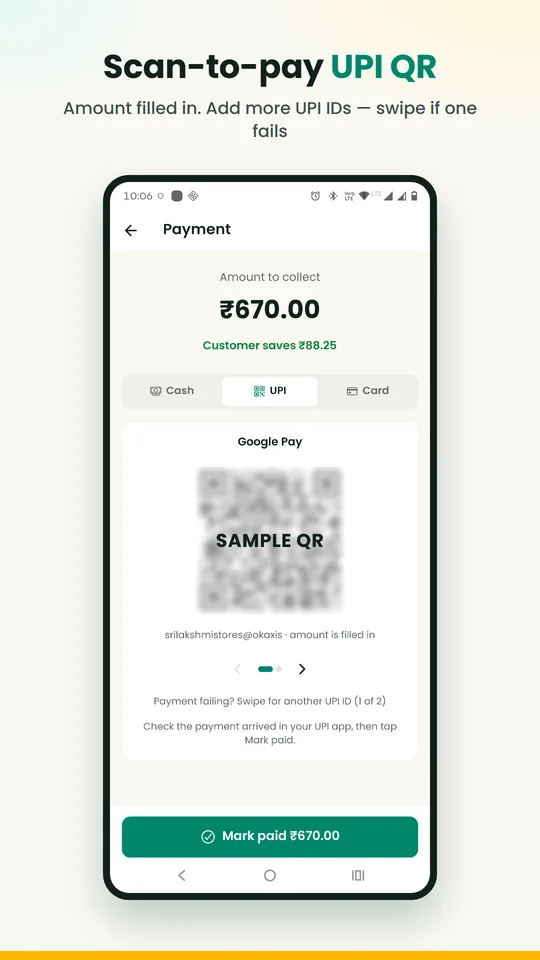
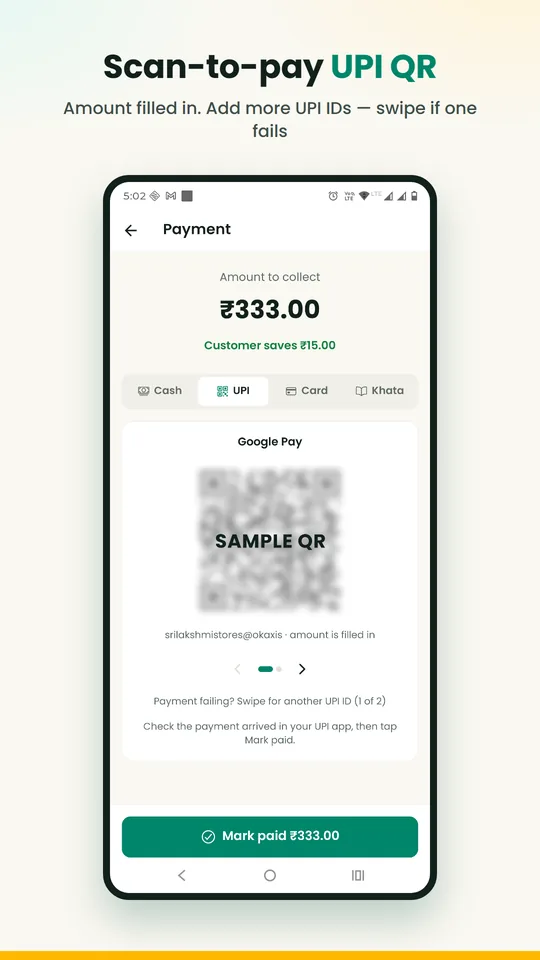
Website: khata and barcode stickers features, screenshots and FAQ

diff --git a/app/page.tsx b/app/page.tsx
@@ -7,6 +7,8 @@ const features = [
   { icon: "🖨", title: "Thermal printing", body: "2\", 3\", 4\" or any custom roll, Bluetooth and Wi-Fi printers. Tamil, Hindi and emoji print properly. Token numbers for food counters." },
   { icon: "🧾", title: "GST-ready bills", body: "CGST/SGST or IGST worked out for you, prices with or without GST, HSN codes and GSTIN check." },
   { icon: "🏷", title: "MRP & discounts", body: "Sell at MRP, your own price, or a % off — like 80% off MRP for crackers. Bills show what the customer saved." },
+  { icon: "📒", title: "Khata (udhaar) book", body: "Put all or part of a bill on a customer's khata, take payments in cash or UPI, and see who owes what. Free. Growth adds WhatsApp reminders and statements." },
+  { icon: "🔖", title: "Your own barcode stickers", body: "Give loose and home-packed items a barcode and print stickers on your receipt printer, with MRP and your price. Weighed packets scan at the right weight. (Growth)" },
   { icon: "📲", title: "UPI QR with amount", body: "Customers scan and pay the exact amount. Add backup UPI IDs and swipe to the next one if a payment fails." },
   { icon: "🗣", title: "Bill in your language", body: "Tamil, Hindi, Telugu, Kannada, Malayalam, Marathi, Gujarati or Bengali — with English alongside if you like. Free for every shop." },
   { icon: "💬", title: "WhatsApp & SMS bills", body: "Send the bill to the customer's WhatsApp or SMS from your own phone, or share a PDF." },
@@ -35,6 +37,9 @@ const screens = [
   { src: "/screenshots/06-reports.webp", alt: "Sales and profit report for the week" },
   { src: "/screenshots/07-item.webp", alt: "Item with MRP, discount and cost price, showing the margin" },
   { src: "/screenshots/08-excel.webp", alt: "Excel import preview with new, updated and rows to fix" },
+  { src: "/screenshots/09-khata.webp", alt: "A customer's khata: what they owe, the limit, and every bill and payment" },
+  { src: "/screenshots/10-khata-book.webp", alt: "Khata book: total due and who owes you, biggest first" },
+  { src: "/screenshots/11-stickers.webp", alt: "Barcode stickers with MRP and your price, printed on a receipt printer" },
 ];
 
 const shops = [
@@ -50,8 +55,9 @@ const faqs = [
   { q: "Which printers work?", a: "Most 2-inch (58mm) and 3-inch (80mm) ESC/POS thermal printers over Bluetooth or Wi-Fi, 4-inch and custom widths, and any printer your phone can reach through Android's print screen (A4, inkjet or Save as PDF)." },
   { q: "Where is my data stored?", a: "On your phone. We don't run servers that receive your bills or items. Use Settings → Backup & restore to save a copy to Google Drive, email or your own WhatsApp." },
   { q: "Can I use it on more than one phone?", a: "Yes. With Galla Peti Pro, link up to 2 counter phones to the owner's phone: each counter bills on its own, and all bills, returns and day closings come together on the owner's phone. Items, prices, stock and staff are sent to the counters. The phones sync inside the shop over Wi-Fi or phone to phone — no internet needed — and if they can't connect, a locked file sent by WhatsApp does the same. Cloud sync from anywhere is planned for Galla Peti Business." },
-  { q: "Is it really free?", a: "Yes. Unlimited bills, GST, printing, WhatsApp bills, returns with credit notes, Excel import, reports and a daily backup are free forever. Free bills end with a small “Billed with Galla Peti” line." },
-  { q: "What do Growth and Pro add, and how do I pay?", a: "Growth adds fast barcode-scanner billing, bills to businesses with their GSTIN, A4 GST invoices, quotations, GST and item-wise reports with Excel for your accountant, a price list to share on WhatsApp or as a PDF, day-end closing with a cash count, up to 3 months of daily backups, and removes the branding line. Pro adds staff PINs with permissions and a sign-in history, and up to 2 counter phones with all sales on the owner's phone. Try all of Pro free for 14 days — no payment or card, it just turns off unless you subscribe. Subscribe in the app (Settings → Plan) — monthly, quarterly or yearly through Google Play, with UPI, card or Play balance. Cancel anytime in Google Play." },
+  { q: "Can customers buy on credit (khata)?", a: "Yes, free. At payment choose Khata, pick the customer and, if they pay part now, enter it — the rest goes on their khata. Take payments later in cash, UPI or card, and see everyone's balance in the khata book. Set a limit per customer if you like. Galla Peti Growth adds a WhatsApp reminder with your UPI ID and a statement to print or share as a PDF. With counter phones, the counters can give khata too and the owner's phone keeps the balances." },
+  { q: "Is it really free?", a: "Yes. Unlimited bills, GST, printing, WhatsApp bills, khata (customer credit), returns with credit notes, Excel import, reports and a daily backup are free forever. Free bills end with a small “Billed with Galla Peti” line." },
+  { q: "What do Growth and Pro add, and how do I pay?", a: "Growth adds fast barcode-scanner billing, your own barcode stickers and weighed packets, khata reminders and statements, bills to businesses with their GSTIN, A4 GST invoices, quotations, GST and item-wise reports with Excel for your accountant, a price list to share on WhatsApp or as a PDF, day-end closing with a cash count, up to 3 months of daily backups, and removes the branding line. Pro adds staff PINs with permissions and a sign-in history, and up to 2 counter phones with all sales on the owner's phone. Try all of Pro free for 14 days — no payment or card, it just turns off unless you subscribe. Subscribe in the app (Settings → Plan) — monthly, quarterly or yearly through Google Play, with UPI, card or Play balance. Cancel anytime in Google Play." },
   { q: "Does it work on a computer?", a: "Not yet — Galla Peti runs on Android phones and tablets. An Android tablet gives you a big screen at the counter and works with the same printer. A computer version is planned for Galla Peti Business." },
   { q: "Can bills print in Tamil, Hindi or another language?", a: "Yes, free for every shop. In Settings → Bill language pick Tamil, Hindi, Telugu, Kannada, Malayalam, Marathi, Gujarati or Bengali, and choose whether English shows alongside. It's used on printed bills, WhatsApp and SMS bills, PDFs, A4 invoices, quotations and credit notes. Item names print just as you type them, in any language." },
   { q: "Does it support GST invoices?", a: "Yes — tax invoices with CGST/SGST or IGST, HSN codes, GSTIN on the bill and a GST summary. You remain responsible for the tax rates you set on your items." },
@@ -186,7 +192,7 @@ export default function Home() {
             <h3 className="text-xl font-bold text-ink">Free</h3>
             <p className="mt-1 text-3xl font-bold text-brand-600">₹0</p>
             <ul className="mt-5 space-y-2 text-[15px] text-ink-soft">
-              {["Unlimited bills", "GST invoices", "Thermal & any-printer printing", "Bills in 8 Indian languages", "Shop logo on bills", "UPI QR, WhatsApp & SMS bills", "Excel import/export", "Returns with credit notes", "Sales & profit reports", "Daily backup (last 7 days)"].map((x) => (
+              {["Unlimited bills", "GST invoices", "Thermal & any-printer printing", "Bills in 8 Indian languages", "Shop logo on bills", "UPI QR, WhatsApp & SMS bills", "Excel import/export", "Khata (udhaar) — credit, part payments, balances", "Returns with credit notes", "Sales & profit reports", "Daily backup (last 7 days)"].map((x) => (
                 <li key={x} className="flex gap-2">
                   <span className="text-brand-600">✓</span>
                   {x}
@@ -203,6 +209,8 @@ export default function Home() {
               intro: "Everything in Free, plus:",
               items: [
                 "Fast entry — barcode scanner or item no. + Enter",
+                "Barcode stickers & weighed packets on your receipt printer",
+                "Khata reminders on WhatsApp and statements (PDF)",
                 "Bill to a business: GSTIN, address, IGST",
                 "A4 GST invoice PDF",
                 "Quotations that turn into bills",

diff --git a/site.config.ts b/site.config.ts
@@ -6,7 +6,7 @@ export const site = {
   tagline: "Billing app for every Indian shop",
   slogan: "Traditional Trust + Modern Speed",
   description:
-    "Galla Peti is a fast, offline billing app for Indian shops — GST bills, thermal printing, UPI QR, WhatsApp bills, items from Excel, and sales & profit reports. Free forever.",
+    "Galla Peti is a fast, offline billing app for Indian shops — GST bills, thermal printing, UPI QR, WhatsApp bills, khata (customer credit), items from Excel, and sales & profit reports. Free forever.",
   company: "Innovait Systems",
 
   url: "https://gallapeti.innovait-systems.com",
